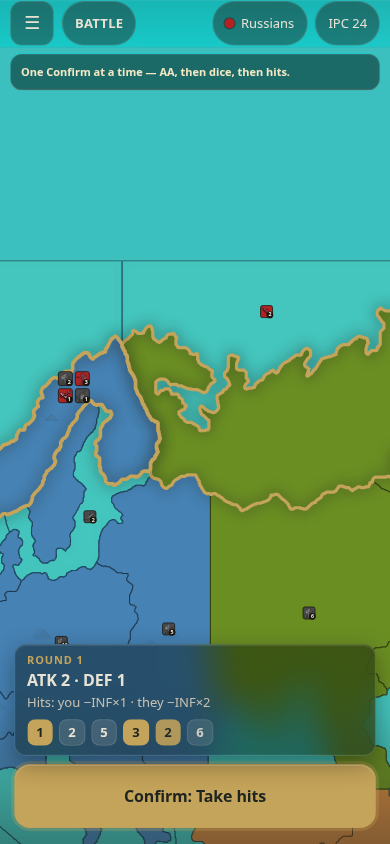
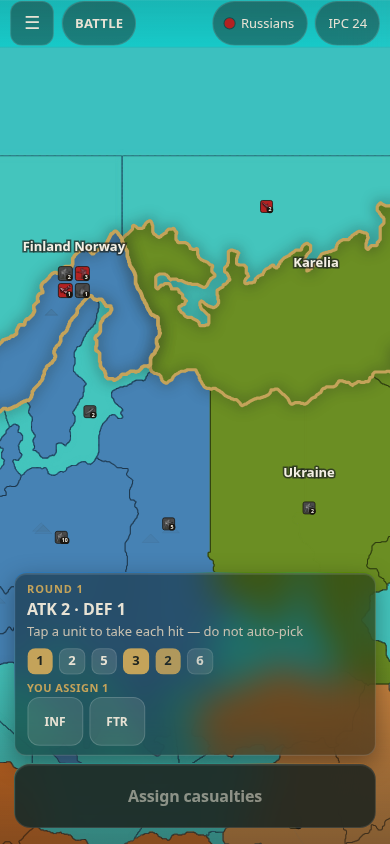
V2.81.53-ux-preview.6: 390 stills of the manual path
Cold open, chips, Pick target, Ukraine/Finland gold Attack,
and the casualty picker. Preview only — do not merge to main.

diff --git a/briefs/2026-09-19-main-art-three-ux/SCORE.md b/briefs/2026-09-19-main-art-three-ux/SCORE.md
@@ -39,10 +39,14 @@ He drives every tap. Seeded pocket only.
 ## Stills @390
 - `combat-move-cold-390.png` — labels + pulsing origin + Select units, no taps yet
 - `combat-move-origin-chips-390.png` — Karelia peek chips, Confirm still Select units
-- `combat-move-select-390.png` — dest pulse / gold Attack
-- `battle-mid-390.png` — casualty picker
+- `combat-move-pick-target-390.png` — INF+FTR picked, Pick target
+- `combat-move-ukraine-attack-390.png` — gold Attack Ukraine
+- `combat-move-select-390.png` — gold Attack Finland
+- `battle-mid-390.png` — casualty picker, Assign casualties
+- `battle-casualty-picked-390.png` — INF assigned, Take hits gold
 - `air-land-choice-390.png` — teal Russia + Karelia
 - `air-landed-390.png` — fighter in Russia, Confirm idle
 
 **Vercel:** https://tactical-risk20-git-cursor-comba-cfebfb-james-projects-20d8de40.vercel.app/?three=1
+**Deployment:** https://tactical-risk20-hnc32wx45-james-projects-20d8de40.vercel.app/?three=1
 **PR:** https://github.com/04jhbickford/Tactical-Risk/pull/74 (draft · PR68 lineage · do not merge to main)
